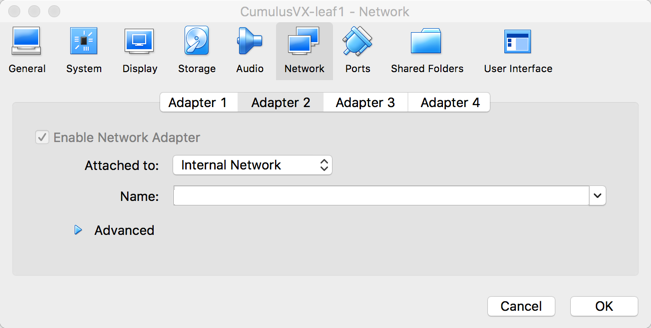
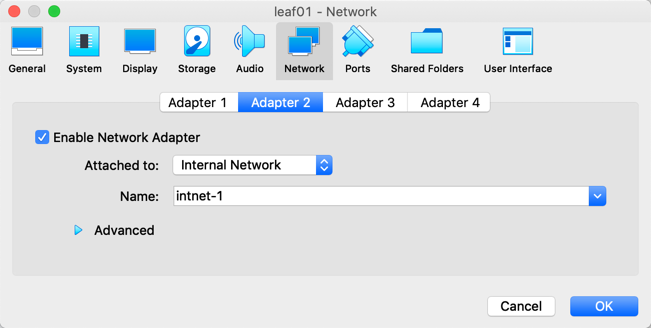
virtual box resting updates

diff --git a/content/cumulus-vx/VirtualBox.md b/content/cumulus-vx/VirtualBox.md
@@ -10,33 +10,35 @@ To use Cumulus VX with VirtualBox, perform the following configuration:
 - Test the connections
 - Configure OSPF and FRRouting
 
+The following steps were tested with VirtualBox-6.0.24.
+
 ## Create the VMs
 
 The following procedure describes how to create a VM in VirtualBox for each switch in the example topology (Leaf01, Leaf02, and Spine01). This section assumes a basic level of VirtualBox experience.
 
 1. Download and install VirtualBox. Refer to the {{<exlink url="https://www.virtualbox.org/wiki/Downloads" text="VirtualBox documentation">}}.
 
-2. Download the OVA disk image for use with VirtualBox from the {{<exlink url="https://cumulusnetworks.com/products/cumulus-vx/download/" text="Cumulus Networks website">}}.
+2. From the {{<exlink url="https://cumulusnetworks.com/products/cumulus-vx/download/" text="Cumulus Networks website">}}, download the OVA disk image to run Cumulus VX within VirtualBox.
 
-3. Open VirtualBox and click **File \> Import Appliance**.
+3. Open the VirtualBox application and select **Import Appliance** from the **File** menu.
 
-4. Browse for the downloaded VirtualBox image, click the **Open** button, then click **Continue**.
+4. Browse for the OVA disk image you installed in the previous step, click the **Open** button, then click **Continue**.
 
-5. Review the Appliance settings. Change the name of the VM to `Leaf01`, then click **Import** to begin the import process.  
+5. In the Appliance settings, change the name of the VM to `Leaf01`, then click **Import** to begin the import process.  
 
    {{< img src = "/images/cumulus-vx/VirtualBox-review.png" >}}
 
-6. Right click the created `Leaf01` VM, then select **Clone**.
+6. In the VirtualBox Manager window, right click the created `Leaf01` VM, then select **Clone**.
 
 7. Change the name of the VM to `Leaf02`, then click **Continue**.
 
 8. Select **Full Clone** and click **Clone**.
 
-9. Repeat steps 6-8 for Spine01:
+9. Repeat steps 6 through 8 to create `Spine01`.
 
 ## Create Connections Between VMs
 
-To use the network topology you configured above, you need to configure the network adapter settings for each VM to create point-to-point connections. The following example shows how to create point-to-point connections between each VM in VirtualBox.
+Configure the network adapter settings for Leaf01, Leaf02, and Spine01 to create point-to-point connections.
 
 {{%notice note%}}
 
@@ -44,37 +46,37 @@ Make sure that the VM is powered off.
 
 {{%/notice%}}
 
-Follow these steps for each VM:
+Follow these steps for each VM (Leaf01, Leaf02, and Spine01):
 
-1. In the VirtualBox Manager window, select the VM.
+1. In the VirtualBox Manager window, select Leaf01.
 
 2. Click **Settings**, then click **Network**.
 
 3. Click **Adapter 2**.
 
-4. Click the **Enable Network Adapter** check box.
+4. Make sure the **Enable Network Adapter** check box is selected.
 
 5. From the **Attached to** list, select **Internal Network**.  
 
-    {{< img src = "/images/cumulus-vx/adapterSettings.png" >}}
-
-6. In the **Name** field, type a name for the internal network, then click **OK**.
+6. In the **Name** field, enter a name for the internal network, then click **OK**. The example below uses `intnet-1`.
 
    The internal network name must match the internal network name on the corresponding network adapter on the VM to be connected to this VM. For example, in the two-leaf and one spine topology, Adapter 2 (swp1) on Leaf01 is connected to Adapter 2 (swp1) on Spine01; the name must be the same for Adapter 2 on both VMs. Use the internal network names and the connections shown in the illustration and table below.
 
-7. Click **Adapter 3** and repeat steps 4 thru 6. Use the internal network names and the connections shown in the illustration and table below.
+   {{< img src = "/images/cumulus-vx/adapterSettings.png" >}}
+
+7. Repeat steps 2 through 6 for Leaf02 and Spine02 using the internal network names and the connections shown in the illustration and table below.
 
 {{< img src = "/images/cumulus-vx/VX-Connections.png" >}}
 
 | Switch    | swp      | VirtualBox Interface | VirtualBox Network Type | Name     |
 | --------- | ----     | -------------------- | ----------------------- | -------- |
 | Leaf01    |          | Adapter 1            | NAT                     |          |
-|           | swp51    | Adapter 2            | Internal                | Intnet-1 |
+|           | swp51    | Adapter 2            | Internal                | intnet-1 |
 | Leaf02    |          | Adapter 1            | NAT                     |          |
-|           | swp51    | Adapter 2            | Internal                | Intnet-2 |
+|           | swp51    | Adapter 2            | Internal                | intnet-2 |
 | Spine01   |          | Adapter 1            | NAT                     |          |
-|           | swp1     | Adapter 2            | Internal                | Intnet-1 |
-|           | swp2     | Adapter 3            | Internal                | Intnet-2 |
+|           | swp1     | Adapter 2            | Internal                | intnet-1 |
+|           | swp2     | Adapter 3            | Internal                | intnet-2 |
 
 {{%notice note%}}
 
